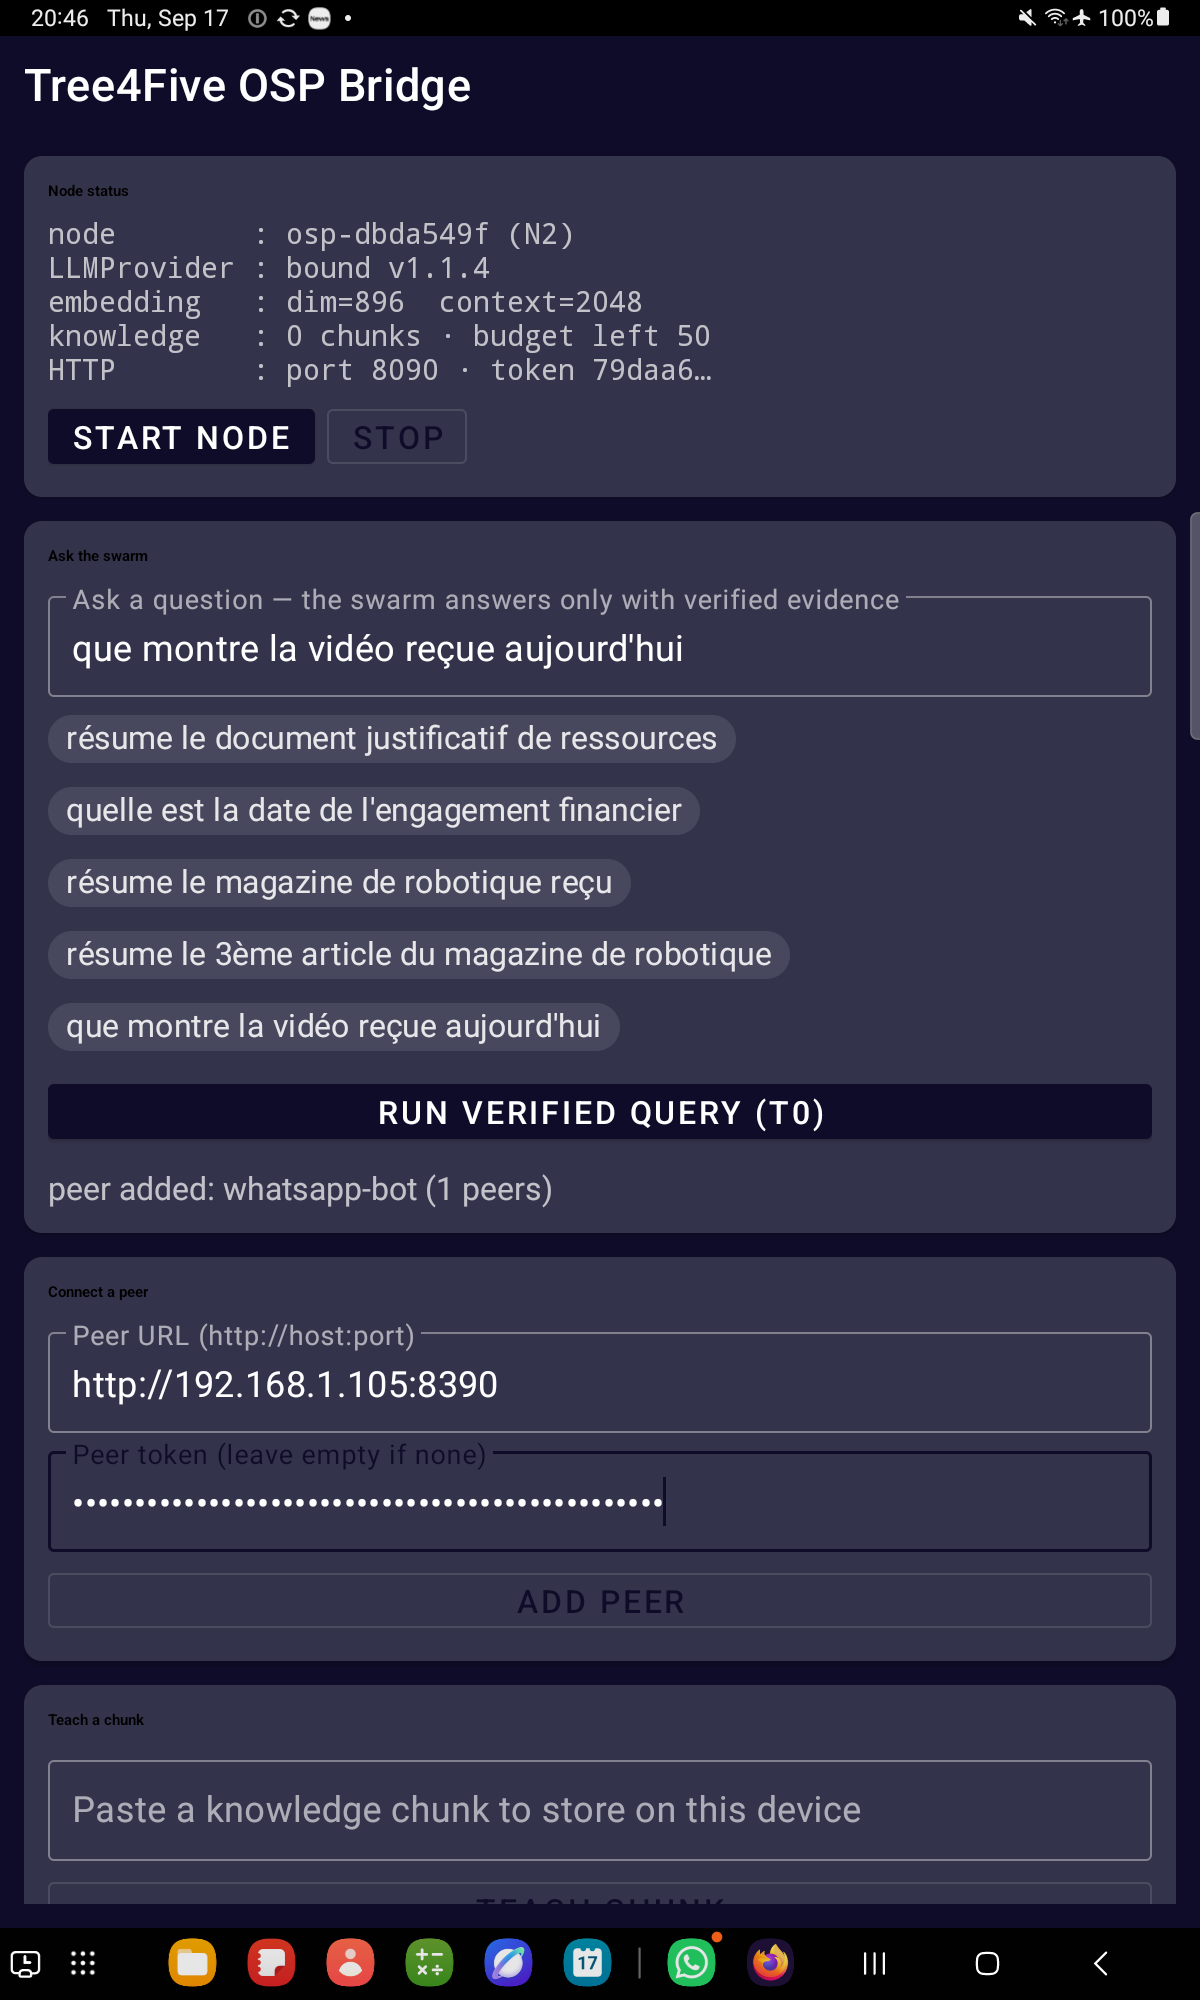
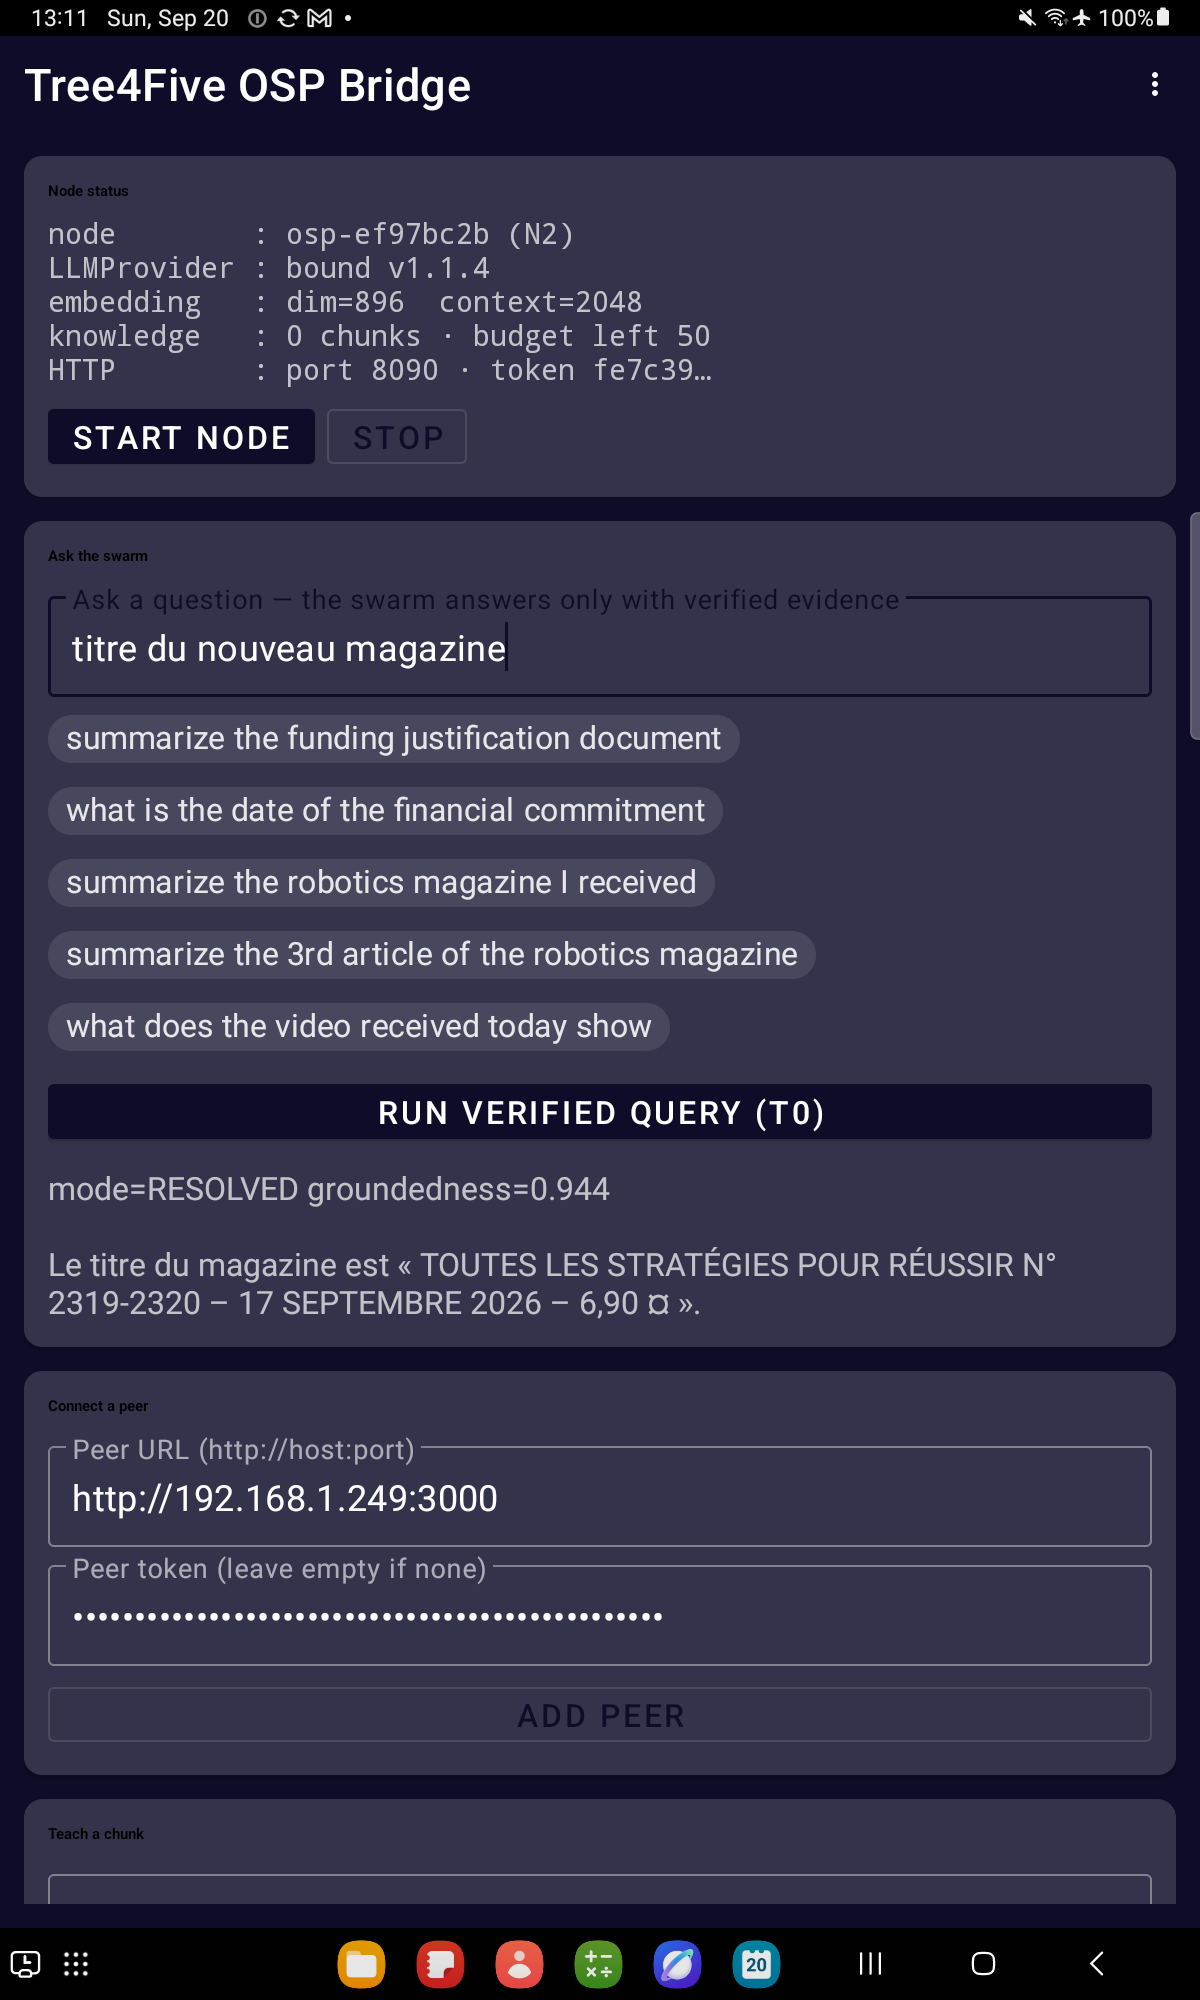
ospbridge: refresh Play screenshots and listing for the menu rework
The main screen no longer carries the Forenseek card; captures show the
node status, a resolved query against the whatsapp-bot corpus (v0.6.2),
and the listing describes the support actions where they now live — the
overflow menu, help included.

diff --git a/android/ospbridge/PLAY_STORE.md b/android/ospbridge/PLAY_STORE.md
@@ -31,9 +31,10 @@ KEY FEATURES
 • Privacy tiers — sensitive (T2) traffic never goes to remote providers.
 • Honest failures — timeouts, out-of-gas, loops and ungrounded answers
   end in explicit, inspectable outcomes, never a silent wrong answer.
-• Forenseek menu — one-tap diagnostics: LOG ALL exports a complete node
-  journal (link secrets truncated), VERSION shows app + protocol versions,
-  RESET ALL wipes identity, peers and taught knowledge.
+• Support menu — one-tap diagnostics in the toolbar overflow: LOG ALL
+  exports a complete node journal (link secrets truncated), VERSION shows
+  app + protocol versions, RESET ALL wipes identity, peers and taught
+  knowledge, and HELP explains the node in the selected app language.
 • Tree4Five Material design — same dark look and feel as the LLM Provider
   app.
 
